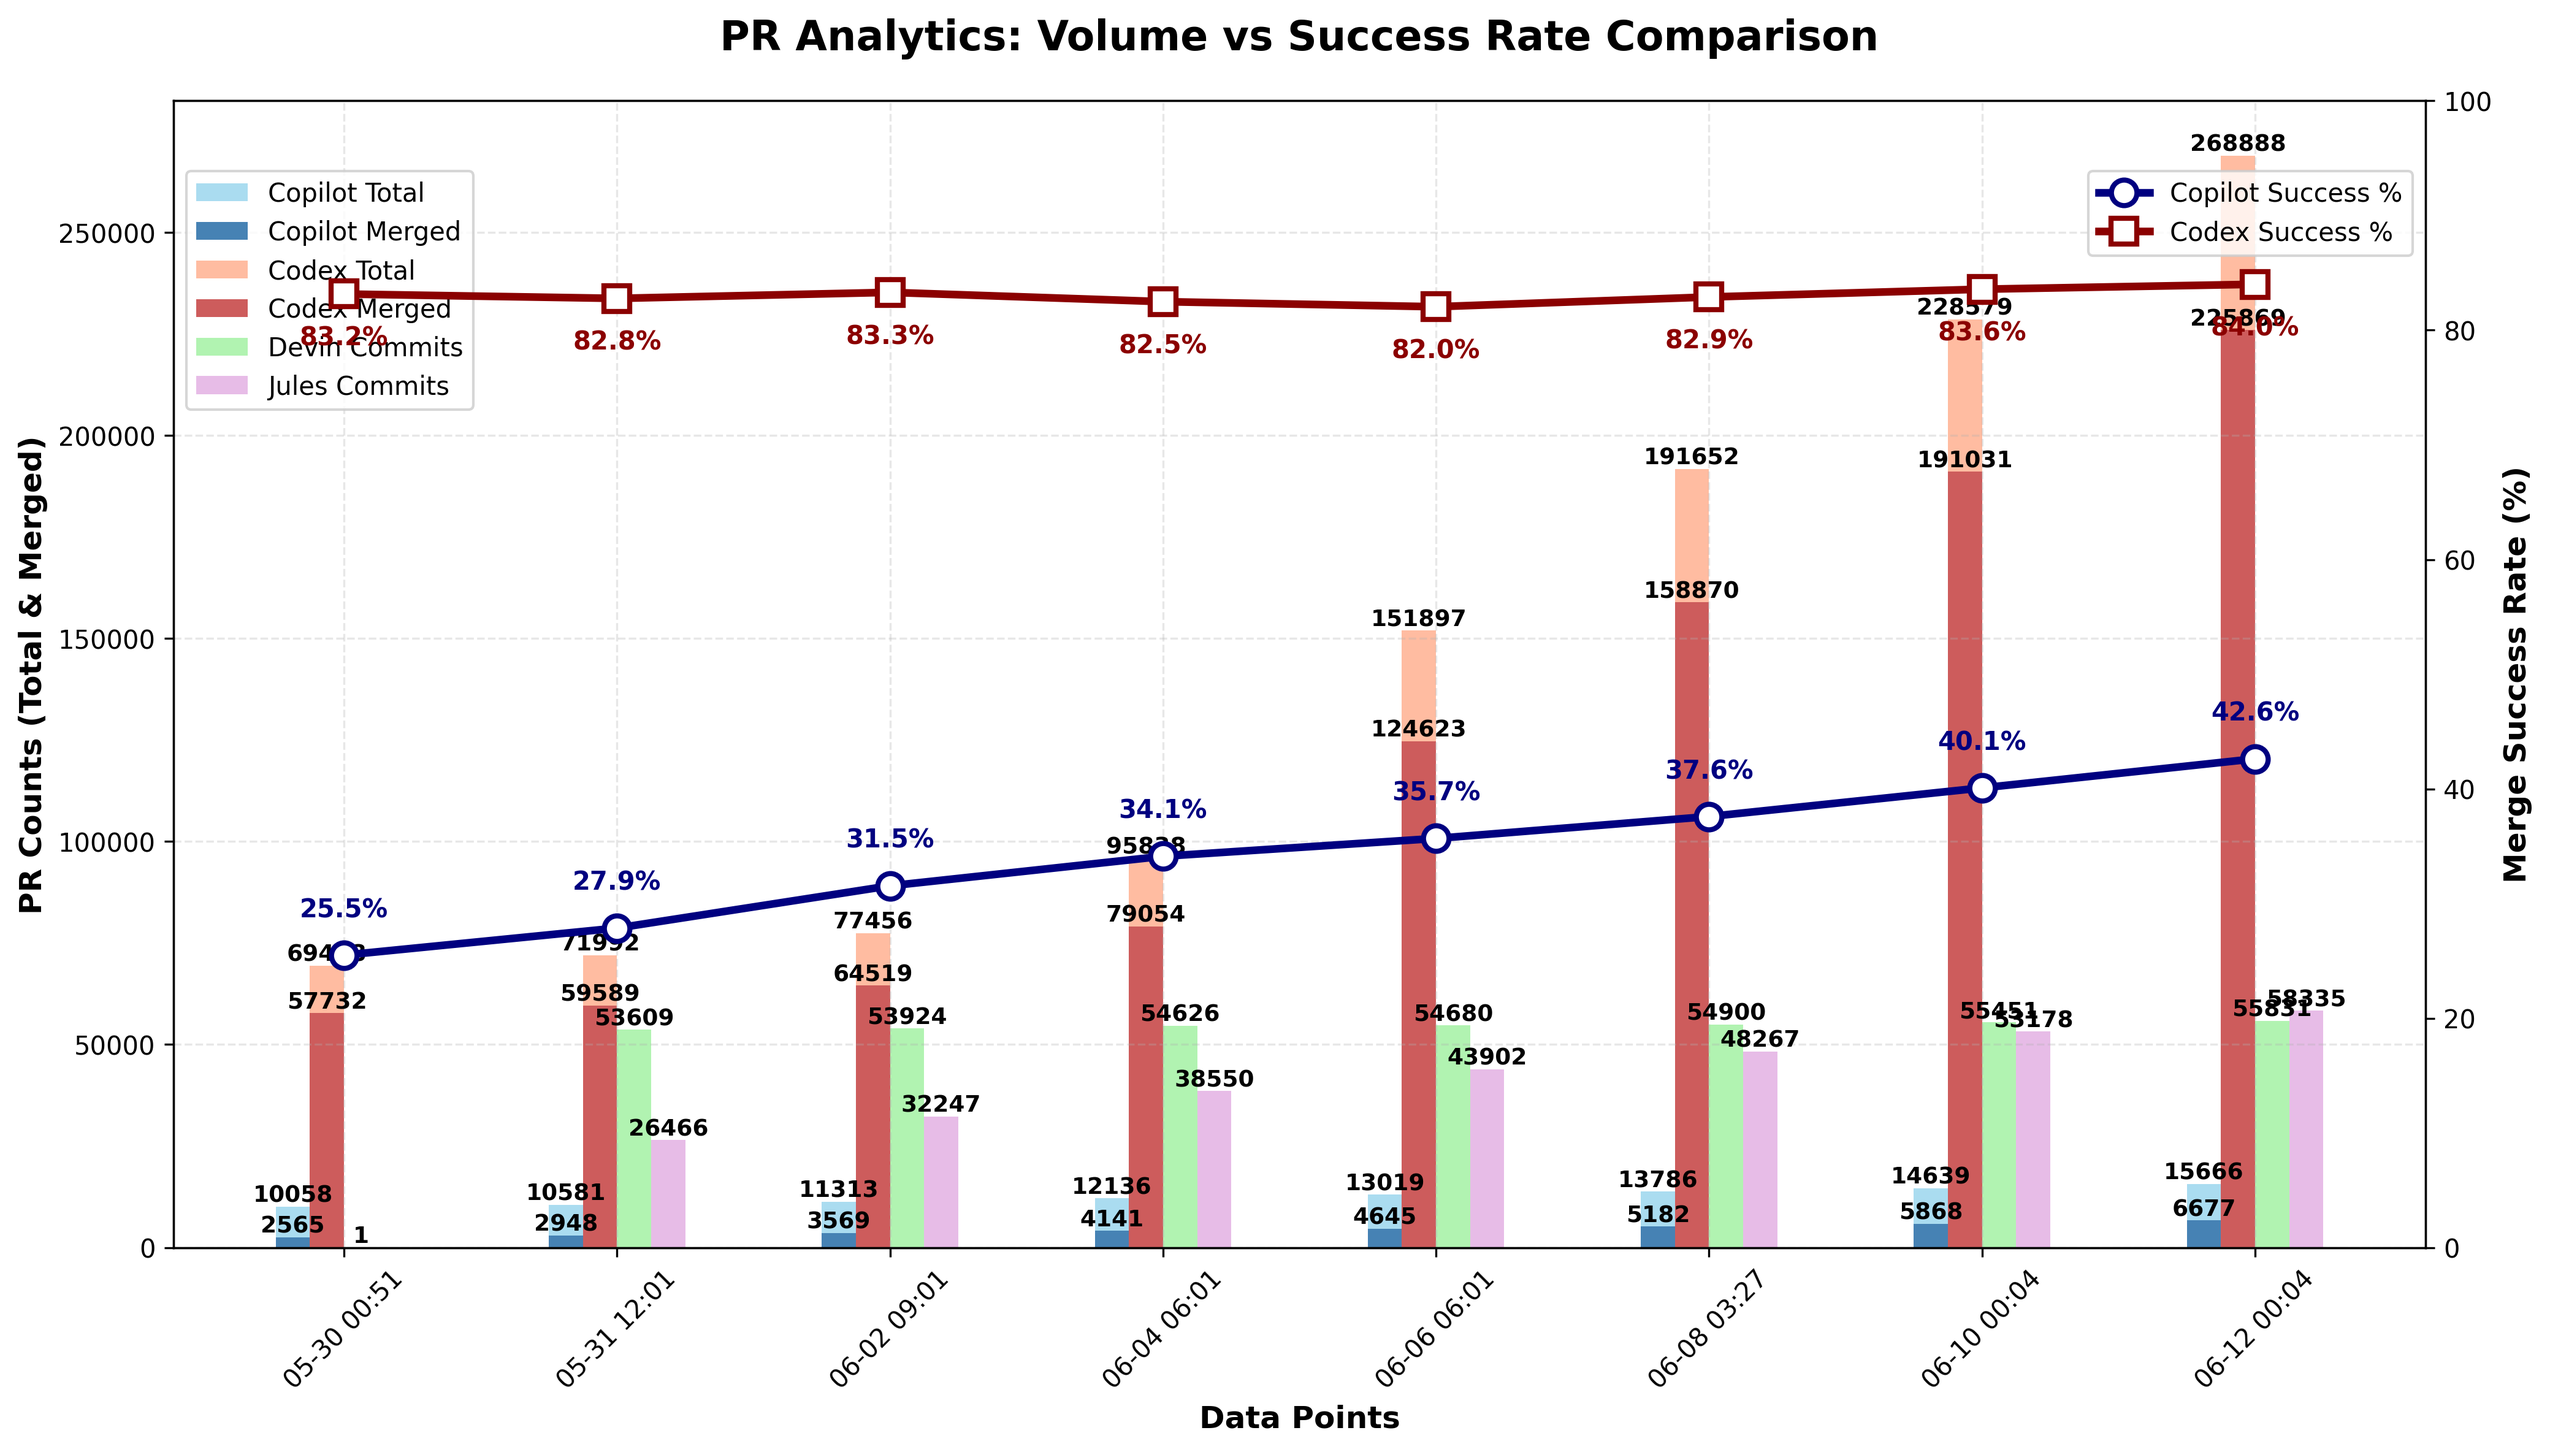
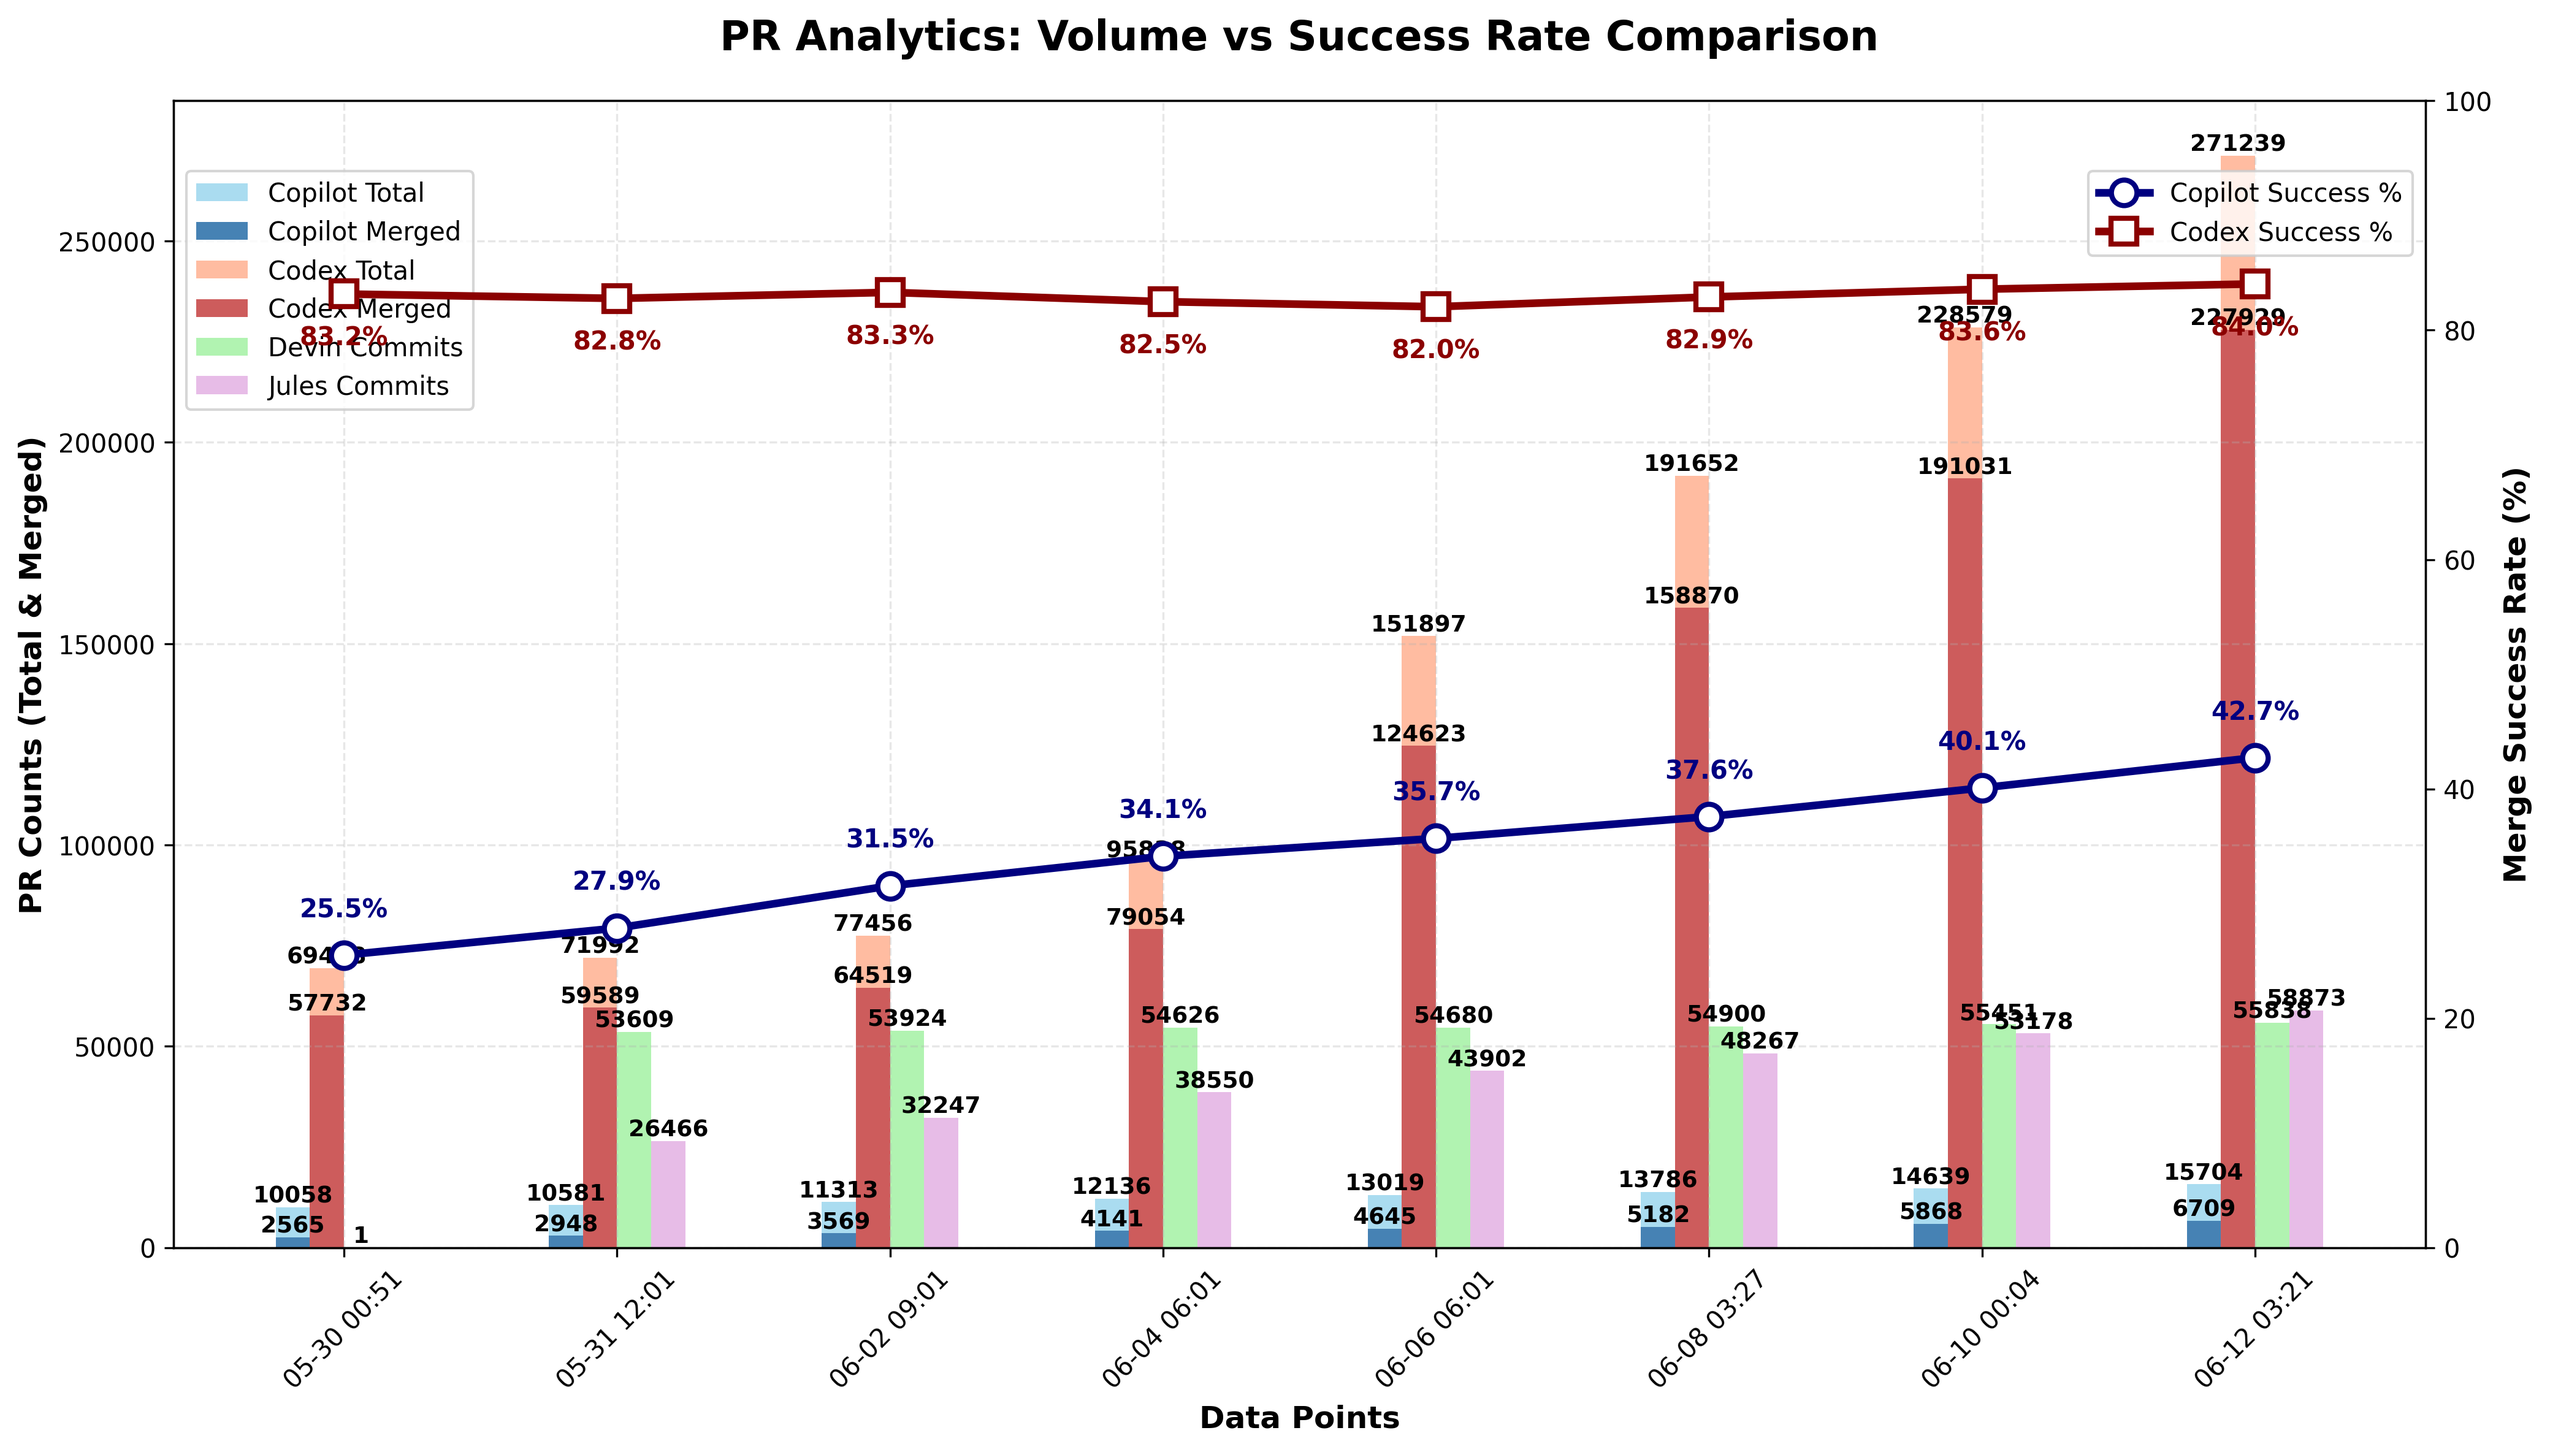
chore: update PR‑approval chart

diff --git a/docs/index.html b/docs/index.html
@@ -153,6 +153,7 @@
                         <td>N/A</td>
                         <td>N/A</td>
                         <td>N/A</td>
+                        <td>N/A</td>
                     </tr>
                     <tr>
                         <td>Codex</td>
@@ -264,27 +265,28 @@
                         <td>N/A</td>
                         <td>N/A</td>
                         <td>N/A</td>
+                        <td>N/A</td>
                     </tr>
                 <tr>
                         <td>Devin</td>
                         <td>N/A</td>
                         <td>N/A</td>
                         <td>N/A</td>
-                        <td>55,831</td>
+                        <td>55,838</td>
                     </tr>
                     <tr>
                         <td>Jules</td>
                         <td>N/A</td>
                         <td>N/A</td>
                         <td>N/A</td>
-                        <td>58,335</td>
+                        <td>58,873</td>
                     </tr>
                     </tbody>
             </table>
         </section>
 
         <footer>
-            <p>Last updated: <span id="last-updated">June 12, 2025 00:04 UTC</span></p>
+            <p>Last updated: <span id="last-updated">June 12, 2025 03:21 UTC</span></p>
             <p><a href="https://github.com/aavetis/ai-pr-watcher">View on GitHub</a></p>
         </footer>
     </div>

diff --git a/README.md b/README.md
@@ -19,7 +19,7 @@ Explore the GitHub search queries used:
 
 | Service | Total PRs | Merged PRs | Merge Rate | Total Commits |
 | ------- | --------- | ---------- | ---------- | ------------- |
-| Copilot | 15,666 | 6,677 | 42.62% | N/A           |
-| Codex   | 268,888 | 225,869 | 84.00% | N/A           |
-| Devin   | N/A       | N/A        | N/A        | 55,831 |
-| Jules   | N/A       | N/A        | N/A        | 58,335 |
+| Copilot | 15,704 | 6,709 | 42.72% | N/A           |
+| Codex   | 271,239 | 227,929 | 84.03% | N/A           |
+| Devin   | N/A       | N/A        | N/A        | 55,838 |
+| Jules   | N/A       | N/A        | N/A        | 58,873 |
